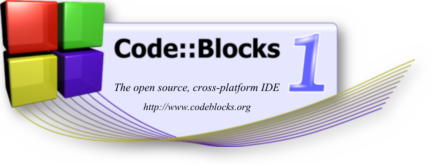
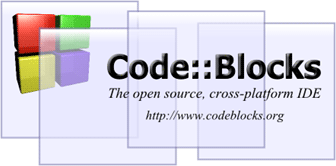
- Startup screen region skin redesign
git-svn-id: https://svn.code.sf.net/p/codeblocks/code/trunk@3192 2a5c6006-c6dd-42ca-98ab-0921f2732cef

diff --git a/src/src/splashscreen.cpp b/src/src/splashscreen.cpp
@@ -9,6 +9,8 @@
 #include <wx/dcclient.h>
 #include <wx/dcmemory.h>
 #include <wx/dcscreen.h>
+#include "../sdk/autorevision.h"
+#include "appglobals.h"
 
 namespace
 {
@@ -17,7 +19,31 @@ namespace
 
 void cbSplashScreen::DoPaint(wxDC &dc)
 {
+  static const wxString release(wxT(RELEASE));
+  static const wxString revision(wxT(SVN_REVISION));
+
+  wxRegion r(0, 0, 181, 181);
+  r.Union(50, 35, 181, 181);
+  r.Union(166, 13, 181, 181);
+  r.Union(259, 29, 181, 181);
+  dc.SetClippingRegion(r);
   dc.DrawBitmap(m_label, 0, 0, false);
+
+  wxFont largeFont(16, wxSWISS, wxFONTSTYLE_NORMAL, wxFONTWEIGHT_BOLD);
+  wxFont smallFont(9, wxSWISS, wxFONTSTYLE_NORMAL, wxFONTWEIGHT_BOLD);
+
+  wxCoord a, b, c, d;
+
+  dc.GetTextExtent(release,  &a, &b, 0, 0, &largeFont);
+  dc.GetTextExtent(revision, &c, &d, 0, 0, &smallFont);
+
+  a >>= 1; c >>=1;
+  int y = 180 - ((b + d + 8)>>1);
+
+  dc.SetFont(largeFont);
+  dc.DrawText(release,  92 - a, y);
+  dc.SetFont(smallFont);
+  dc.DrawText(revision, 92 - c, y + b);
 }
 
 void cbSplashScreen::OnPaint(wxPaintEvent &)
@@ -85,6 +111,14 @@ cbSplashScreen::cbSplashScreen(wxBitmap &label, long timeout, wxWindow *parent, 
   label_dc.Blit(0, 0, w, h, &screen_dc, x, y);
   label_dc.DrawBitmap(label, 0, 0, true);
   label_dc.SelectObject(wxNullBitmap);
+
+//  Surprise: SetShape() does not seem to work...?
+//  See DoPaint() -- we simulate it using the clip rect
+//  wxRegion r(0, 0, 182, 182);
+//  r.Union(50, 35, 182, 182);
+//  r.Union(166, 13, 182, 182);
+//  r.Union(258, 28, 182, 182);
+//  SetShape(r);
 
   Show(true);
   SetThemeEnabled(false); // seems to be useful by description

diff --git a/src/src/startherepage.cpp b/src/src/startherepage.cpp
@@ -107,11 +107,11 @@ StartHerePage::StartHerePage(wxEvtHandler* owner, wxWindow* parent)
     delete fs;
 
 	#ifdef __GNUC__
-	revInfo.Printf(_T("Version %s (%s)   gcc %d.%d.%d %s/%s"),
+	revInfo.Printf(_T("%s (%s)   gcc %d.%d.%d %s/%s"),
 					g_AppActualVersionVerb.c_str(), ConfigManager::GetSvnDate().c_str(),
 					__GNUC__, __GNUC_MINOR__, __GNUC_PATCHLEVEL__, g_AppPlatform.c_str(), g_AppWXAnsiUnicode.c_str());
 	#else
-	revInfo.Printf(_T("Version %s (%s)   %s/%s"),
+	revInfo.Printf(_T("%s (%s)   %s/%s"),
 					g_AppActualVersionVerb.c_str(), ConfigManager::GetSvnDate().c_str(),
 					g_AppPlatform.c_str(), g_AppWXAnsiUnicode.c_str());
 	#endif
@@ -161,7 +161,7 @@ bool StartHerePage::LinkClicked(const wxHtmlLinkInfo& link)
         return true;
     if (!m_pOwner)
         return true;
-    
+
     wxString href = link.GetHref();
     if (href.StartsWith(_T("CB_CMD_")))
     {
@@ -184,6 +184,6 @@ bool StartHerePage::LinkClicked(const wxHtmlLinkInfo& link)
         wxTheClipboard->SetData(data);
         return true;
     }
-    
+
     return false;
 }

diff --git a/src/src/appglobals.cpp b/src/src/appglobals.cpp
@@ -20,9 +20,17 @@
 
 const wxString g_AppVendor              = _T("Code::Blocks");
 const wxString g_AppName			    = _T("Code::Blocks");
-const wxString g_AppVersion				= _T("1.0");
-const wxString g_AppActualVersionVerb	= _T("1.0 revision " SVN_REVISION);
-const wxString g_AppActualVersion		= _T("1.0-r" SVN_REVISION);
+
+#if SVN_BUILD
+    const wxString g_AppVersion				= _T("svn build");
+    const wxString g_AppActualVersionVerb	= _T("svn build  rev " SVN_REVISION);
+    const wxString g_AppActualVersion		= _T("svn-r" SVN_REVISION);
+#else
+    const wxString g_AppVersion				= _T(RELEASE);
+    const wxString g_AppActualVersionVerb	= _T("Release " RELEASE "  rev " SVN_REVISION);
+    const wxString g_AppActualVersion		= _T(RELEASE "-r" SVN_REVISION);
+#endif
+
 const wxString g_AppUrl					= _T("http://www.codeblocks.org");
 const wxString g_AppContactEmail		= _T("info@codeblocks.org");
 

diff --git a/src/src/dlgabout.cpp b/src/src/dlgabout.cpp
@@ -47,7 +47,7 @@ dlgAbout::dlgAbout(wxWindow* parent)
 {
 	wxXmlResource::Get()->LoadDialog(this, parent, _T("dlgAbout"));
 
-    const wxString description = _("Welcome to ") + g_AppName + _T(" v") +
+    const wxString description = _("Welcome to ") + g_AppName + _T(" ") +
                                  g_AppVersion + _T("!\n") + g_AppName +
 					             _(" is a full-featured IDE (Integrated Development Environment) "
 					"aiming to make the individual developer (and the development team) "

diff --git a/src/src/appglobals.h b/src/src/appglobals.h
@@ -3,6 +3,11 @@
 
 #include <wx/string.h>
 
+#ifndef RELEASE
+    #define RELEASE "svn"
+    #define SVN_BUILD 1
+#endif
+
 extern const wxString g_AppVendor;
 extern const wxString g_AppName;
 extern const wxString g_AppVersion;
